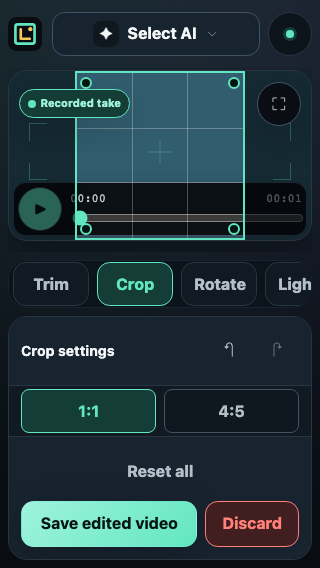
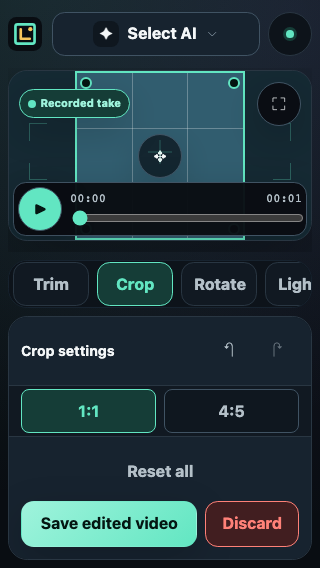
Fix Video Cropping

Changed region(s): [[0.0312, 0.2993, 0.9688, 0.4489], [0.4375, 0.2394, 0.5625, 0.3292]]

diff --git a/apps/web/src/features/video-editor/VideoEditStagePreview.tsx b/apps/web/src/features/video-editor/VideoEditStagePreview.tsx
@@ -30,14 +30,16 @@ const formatTime = (milliseconds: number): string => {
 };
 
 type CropEdge = 'move' | 'top-left' | 'top-right' | 'bottom-left' | 'bottom-right';
+type CropState = VideoEditStagePreviewContract['spec']['crop'];
 
 const updateCrop = (
   contract: VideoEditStagePreviewContract,
   edge: CropEdge,
   deltaX: number,
   deltaY: number,
-) => {
-  const current = contract.spec.crop.rectangle;
+  crop: CropState = contract.spec.crop,
+): CropState => {
+  const current = crop.rectangle;
   const next = { ...current };
   if (edge === 'move') {
     next.x += deltaX;
@@ -56,17 +58,27 @@ const updateCrop = (
       next.height += deltaY;
     }
   }
+  const nextCrop = {
+    preset: edge === 'move' ? crop.preset : ('freeform' as const),
+    rectangle: normalizeVideoCrop(next),
+  };
   contract.onCropChange({
     ...contract.spec,
-    crop: { preset: 'freeform', rectangle: normalizeVideoCrop(next) },
+    crop: nextCrop,
   });
+  return nextCrop;
 };
 
 export const VideoEditStagePreview = ({ videoRef, contract }: Props) => {
   const theme = useTheme();
   const canvasRef = useRef<HTMLCanvasElement>(null);
   const frameRef = useRef<HTMLDivElement>(null);
-  const dragRef = useRef<Readonly<{ edge: CropEdge; x: number; y: number }> | null>(null);
+  const dragRef = useRef<Readonly<{
+    edge: CropEdge;
+    x: number;
+    y: number;
+    crop: CropState;
+  }> | null>(null);
   const [playing, setPlaying] = useState(false);
   const geometry = useMemo(
     () =>
@@ -182,20 +194,26 @@ export const VideoEditStagePreview = ({ videoRef, contract }: Props) => {
 
   const beginDrag = (edge: CropEdge, event: React.PointerEvent<HTMLElement>) => {
     contract.onCropStart();
-    dragRef.current = { edge, x: event.clientX, y: event.clientY };
-    event.currentTarget.setPointerCapture(event.pointerId);
+    dragRef.current = {
+      edge,
+      x: event.clientX,
+      y: event.clientY,
+      crop: contract.spec.crop,
+    };
+    event.currentTarget.setPointerCapture?.(event.pointerId);
   };
   const continueDrag = (event: React.PointerEvent<HTMLElement>) => {
     const drag = dragRef.current;
     const frame = frameRef.current?.getBoundingClientRect();
     if (!drag || !frame?.width || !frame.height) return;
-    updateCrop(
+    const crop = updateCrop(
       contract,
       drag.edge,
       (event.clientX - drag.x) / frame.width,
       (event.clientY - drag.y) / frame.height,
+      drag.crop,
     );
-    dragRef.current = { edge: drag.edge, x: event.clientX, y: event.clientY };
+    dragRef.current = { edge: drag.edge, x: event.clientX, y: event.clientY, crop };
   };
   const finishDrag = () => {
     if (!dragRef.current) return;
@@ -242,11 +260,16 @@ export const VideoEditStagePreview = ({ videoRef, contract }: Props) => {
   return (
     <div css={previewLayerStyles()} data-video-edit-preview="">
       {!contract.showingBefore ? (
-        <div ref={frameRef} css={canvasFrameStyles(theme, displayGeometry.aspectRatio)}>
+        <div
+          ref={frameRef}
+          css={canvasFrameStyles(theme, displayGeometry.aspectRatio)}
+          data-video-edit-frame=""
+        >
           <canvas ref={canvasRef} aria-hidden="true" />
           {contract.activeTool === 'crop' ? (
             <div
               css={cropSelectionStyles(theme, contract.spec.crop.rectangle)}
+              data-crop-selection=""
               onPointerDown={(event) => beginDrag('move', event)}
               onPointerMove={continueDrag}
               onPointerUp={finishDrag}

diff --git a/apps/web/src/features/video-editor/VideoEditStagePreview.test.tsx b/apps/web/src/features/video-editor/VideoEditStagePreview.test.tsx
@@ -19,20 +19,22 @@ const PreviewHarness = ({
   onCropChange,
   onCropCommit,
   onPlayheadChange = vi.fn(),
+  initialCrop = {
+    preset: 'freeform' as const,
+    rectangle: { x: 0.1, y: 0.1, width: 0.8, height: 0.8 },
+  },
 }: {
   showingBefore?: boolean;
   onCropStart: () => void;
   onCropChange: (spec: VideoEditSpec) => void;
   onCropCommit: () => void;
   onPlayheadChange?: (playheadMs: number) => void;
+  initialCrop?: VideoEditSpec['crop'];
 }) => {
   const videoRef = useRef<HTMLVideoElement>(null);
   const [spec, setSpec] = useState<VideoEditSpec>({
     ...createDefaultVideoEditSpec(10_000),
-    crop: {
-      preset: 'freeform',
-      rectangle: { x: 0.1, y: 0.1, width: 0.8, height: 0.8 },
-    },
+    crop: initialCrop,
   });
   return (
     <StudioDesignProvider>
@@ -62,6 +64,69 @@ const PreviewHarness = ({
 };
 
 describe('VideoEditStagePreview', () => {
+  it('drags the whole crop selection and keeps a fixed-ratio preset positioned', () => {
+    const onCropStart = vi.fn<() => void>();
+    const onCropChange = vi.fn<(spec: VideoEditSpec) => void>();
+    const onCropCommit = vi.fn<() => void>();
+    const view = render(
+      <PreviewHarness
+        initialCrop={{
+          preset: '1:1',
+          rectangle: { x: 0.2, y: 0, width: 0.5625, height: 1 },
+        }}
+        onCropStart={onCropStart}
+        onCropChange={onCropChange}
+        onCropCommit={onCropCommit}
+      />,
+    );
+    const frame = view.container.querySelector<HTMLElement>('[data-video-edit-frame]')!;
+    const selection = view.container.querySelector<HTMLElement>('[data-crop-selection]')!;
+    vi.spyOn(frame, 'getBoundingClientRect').mockReturnValue({
+      x: 0,
+      y: 0,
+      top: 0,
+      right: 1_000,
+      bottom: 500,
+      left: 0,
+      width: 1_000,
+      height: 500,
+      toJSON: () => ({}),
+    });
+
+    expect(getComputedStyle(selection).pointerEvents).toBe('auto');
+    fireEvent.pointerDown(selection, { pointerId: 1, clientX: 300, clientY: 200 });
+    fireEvent.pointerMove(selection, { pointerId: 1, clientX: 400, clientY: 200 });
+    fireEvent.pointerUp(selection, { pointerId: 1 });
+
+    const movedCrop = onCropChange.mock.calls.at(-1)?.[0].crop;
+    expect(movedCrop?.preset).toBe('1:1');
+    expect(movedCrop?.rectangle.x).toBeCloseTo(0.3);
+    expect(movedCrop?.rectangle).toMatchObject({ y: 0, width: 0.5625, height: 1 });
+    expect(onCropStart).toHaveBeenCalledOnce();
+    expect(onCropCommit).toHaveBeenCalledOnce();
+  });
+
+  it('turns a preset crop into Freeform when a corner resizes it', () => {
+    const onCropChange = vi.fn<(spec: VideoEditSpec) => void>();
+    render(
+      <PreviewHarness
+        initialCrop={{
+          preset: '1:1',
+          rectangle: { x: 0.2, y: 0, width: 0.5625, height: 1 },
+        }}
+        onCropStart={vi.fn()}
+        onCropChange={onCropChange}
+        onCropCommit={vi.fn()}
+      />,
+    );
+
+    const handle = screen.getByRole('button', { name: 'Resize crop from top left' });
+    fireEvent.keyDown(handle, { key: 'ArrowRight' });
+    fireEvent.keyUp(handle, { key: 'ArrowRight' });
+
+    expect(onCropChange.mock.calls.at(-1)?.[0].crop.preset).toBe('freeform');
+  });
+
   it('moves keyboard crop handles by 1%, uses Shift for 5%, and groups each gesture', () => {
     const onCropStart = vi.fn<() => void>();
     const onCropChange = vi.fn<(spec: VideoEditSpec) => void>();

diff --git a/apps/web/src/features/video-editor/VideoEditStagePreview.styles.ts b/apps/web/src/features/video-editor/VideoEditStagePreview.styles.ts
@@ -30,17 +30,16 @@ export const cropSelectionStyles = (
   crop: Readonly<{ x: number; y: number; width: number; height: number }>,
 ): CSSObject => ({
   position: 'absolute',
-  zIndex: 6,
+  zIndex: 4,
   insetInlineStart: `${crop.x * 100}%`,
   insetBlockStart: `${crop.y * 100}%`,
   width: `${crop.width * 100}%`,
   height: `${crop.height * 100}%`,
   border: `2px solid ${theme.colors.accent}`,
   boxShadow: '0 0 0 100vmax rgba(2, 5, 9, 0.58)',
-  pointerEvents: 'none',
+  pointerEvents: 'auto',
   touchAction: 'none',
   cursor: 'move',
-  '& button': { pointerEvents: 'auto' },
   '&::before, &::after': {
     position: 'absolute',
     inset: 0,
@@ -99,12 +98,21 @@ export const cropMoveHandleStyles = (theme: Theme): CSSObject => ({
   width: 'min(2.75rem, 60%)',
   height: 'min(2.75rem, 60%)',
   padding: 0,
-  border: 0,
   borderRadius: theme.radii.round,
-  background: 'transparent',
+  display: 'grid',
+  placeItems: 'center',
+  border: `1px solid ${theme.colors.borderStrong}`,
+  color: theme.colors.text,
+  background: 'rgba(2, 5, 9, 0.62)',
+  boxShadow: theme.shadows.soft,
   transform: 'translate(-50%, -50%)',
   cursor: 'move',
   touchAction: 'none',
+  '&::after': {
+    content: '"✥"',
+    fontSize: '1rem',
+    lineHeight: 1,
+  },
   '&:focus-visible': {
     outline: `2px solid ${theme.colors.focus}`,
     outlineOffset: '2px',

diff --git a/packages/domain/src/video-editing/rules.ts b/packages/domain/src/video-editing/rules.ts
@@ -75,12 +75,25 @@ export const cropForVideoEditPreset = (
   const sourceAspect = sourceWidth / sourceHeight;
   const targetAspect = cropAspect(preset);
   if (!Number.isFinite(sourceAspect) || sourceAspect <= 0) return FULL_VIDEO_CROP;
+  const normalizedCurrent = normalizeVideoCrop(current);
+  const centerX = normalizedCurrent.x + normalizedCurrent.width / 2;
+  const centerY = normalizedCurrent.y + normalizedCurrent.height / 2;
   if (sourceAspect > targetAspect) {
     const width = targetAspect / sourceAspect;
-    return { x: (1 - width) / 2, y: 0, width, height: 1 };
+    return {
+      x: clamp(centerX - width / 2, 0, 1 - width),
+      y: 0,
+      width,
+      height: 1,
+    };
   }
   const height = sourceAspect / targetAspect;
-  return { x: 0, y: (1 - height) / 2, width: 1, height };
+  return {
+    x: 0,
+    y: clamp(centerY - height / 2, 0, 1 - height),
+    width: 1,
+    height,
+  };
 };
 
 export const normalizeVideoEditSpec = (

diff --git a/packages/domain/src/video-editing/video-editing.test.ts b/packages/domain/src/video-editing/video-editing.test.ts
@@ -31,6 +31,19 @@ describe('video editing rules', () => {
     expect(crop.y).toBeGreaterThanOrEqual(0);
   });
 
+  it('preserves a fixed-ratio crop position while keeping its requested aspect', () => {
+    const crop = cropForVideoEditPreset('1:1', source.width, source.height, {
+      x: 0.3,
+      y: 0,
+      width: 0.5625,
+      height: 1,
+    });
+
+    expect(crop.x).toBeCloseTo(0.3);
+    expect(crop).toMatchObject({ y: 0, width: 0.5625, height: 1 });
+    expect((source.width * crop.width) / (source.height * crop.height)).toBeCloseTo(1, 5);
+  });
+
   it('clamps trim, crop, and adjustment values', () => {
     const normalized = normalizeVideoEditSpec(
       {

diff --git a/docs/userStories/13-local-video-editing.md b/docs/userStories/13-local-video-editing.md
@@ -15,8 +15,9 @@ a provider, and replace the immutable source only after a validated export and e
 3. Use accessible start/end ranges, the playhead, **Set start to playhead**, and **Set end to
    playhead** to choose a trim of at least 100 ms. Playback loops inside that range.
 4. Choose Original, Freeform, 16:9, 9:16, 1:1, or 4:5 crop. Crop mode shows the full rotated source
-   with the excluded area dimmed. Pointer capture moves/resizes the crop; keyboard arrows move a
-   focused corner by 1%, or 5% with Shift.
+   with the excluded area dimmed. Drag anywhere inside the selected area to position it; fixed-ratio
+   crops keep their ratio while moving. Dragging a corner resizes the selection as Freeform.
+   Keyboard arrows move a focused selection or corner by 1%, or 5% with Shift.
 5. Rotate in 90° increments, flip horizontally or vertically, combine Brightness, Contrast,
    Saturation, Temperature, Highlights, and Shadows values from -100 to 100, and optionally add the
    Original, Vivid, Warm, Cool, Mono, or Fade filter. Filters compose with manual adjustments.
